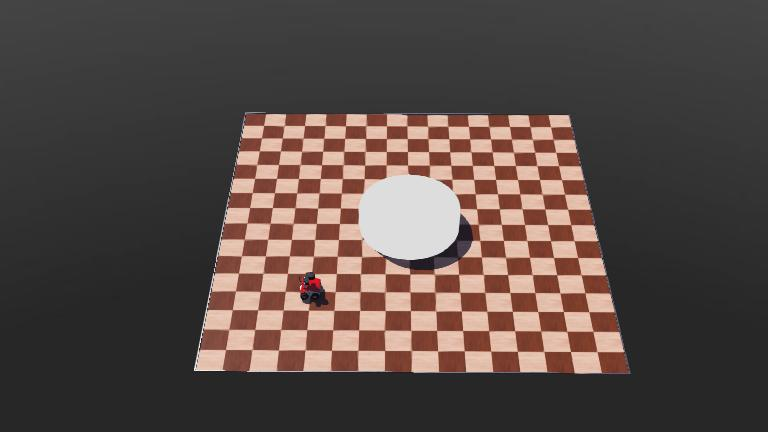
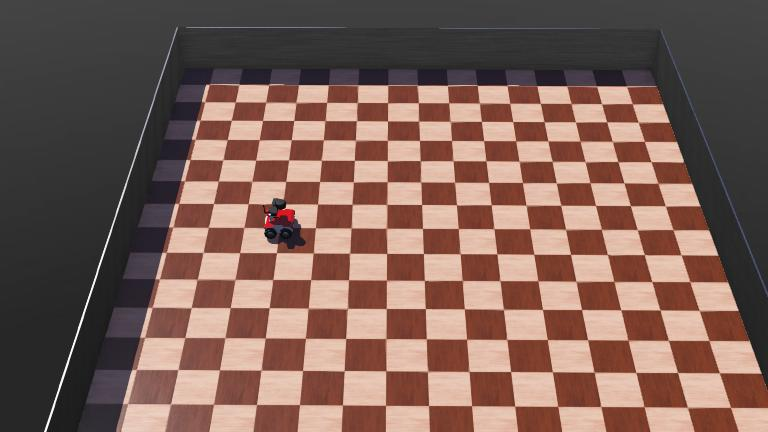
Mejorar configuración LiDAR y sensor de distancia RosBot
- Optimizado rango LiDAR: minRange 0.01m, maxRange 5.0m para mejor calidad de datos
- Ajustado controlador test sensores para evitar giro automático
- Actualizado proto RosBot con slots configurables (GPS, compass, LiDAR)
- Mejorada configuración mundo de prueba para test de sensores

diff --git a/webots demos/Sensor Test demo/controllers/rosbot_sensor_test_controller/rosbot_sensor_test_controller.py b/webots demos/Sensor Test demo/controllers/rosbot_sensor_test_controller/rosbot_sensor_test_controller.py
@@ -56,7 +56,7 @@ def main():
         main.prev_angle_diff = angle_diff
         
         # Girar a la izquierda continuamente
-        robot.turn_left()
+        #robot.turn_left()
 
         robot.log_devices()
 
